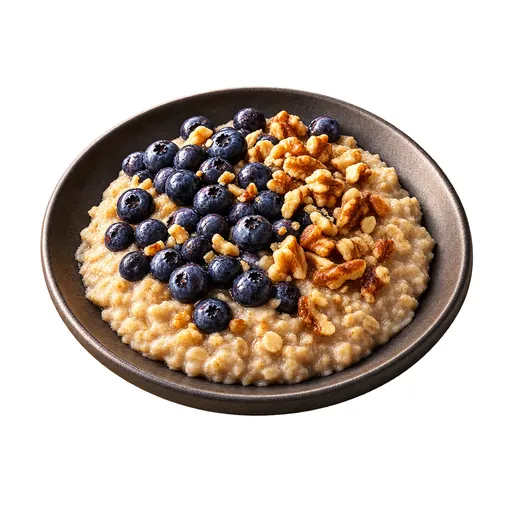
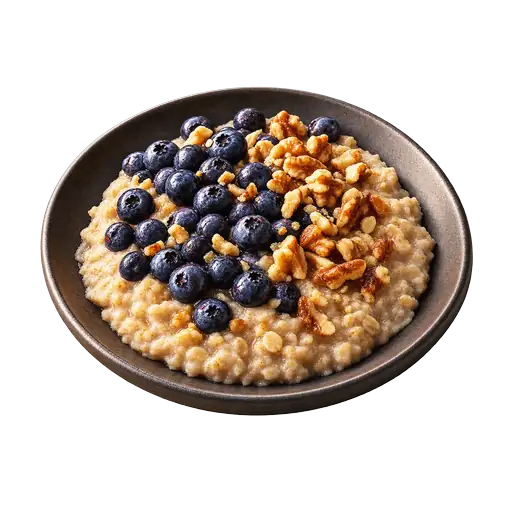
Блюда: пересохранены с прозрачным фоном; спецификация исправлена
Все 22 старых блюда каталога — RGBA, а я в прошлом коммите сплющил новые на
белый: на тёмных карточках приложения это были бы белые квадраты. Пересохранил
14 новых с сохранением прозрачности (472 px внутри прозрачного холста 512x512,
WebP q62). Проверено: все 37 файлов 512x512 RGBA, папка 1,2 МБ.

Про вес честно: сильнее не жмётся. Исходники детальнее старых, на q45 экономия
пара килобайт, а текстура сыпется — оставил 40–60 КБ против 15–25 у прежних.

В docs/DISH-CATALOG-SPEC.md вписан рабочий промпт владельца дословно и
исправлено моё ошибочное требование «фон чисто белый» → прозрачный PNG.
Оригиналы из скрин/2 удалены по просьбе владельца.

diff --git a/docs/DISH-CATALOG-SPEC.md b/docs/DISH-CATALOG-SPEC.md
@@ -26,10 +26,11 @@
 
 ## 2. Требования к фото (обязательно соблюсти — иначе каталог развалится по стилю)
 
-- **512 × 512, WebP**, вес ~20–30 КБ.
-- Одна **круглая чёрная матовая тарелка**, вид сверху под углом примерно 30–40°.
-- **Фон чисто белый**, мягкая тень под тарелкой, никаких столов, скатертей, приборов, рук, зелени
-  по краям, надписей и логотипов.
+- **512 × 512, WebP, с ПРОЗРАЧНЫМ фоном** (все блюда каталога — RGBA; на белом они будут белыми
+  квадратами на тёмных карточках приложения). Исходник — PNG 1024×1024 с прозрачностью.
+- Одна **круглая матовая тёмно-графитовая тарелка**, вид под углом 45°, тарелка занимает ~85 %
+  кадра, тёплый боковой свет слева сверху, мягкая полупрозрачная контактная тень под тарелкой.
+- Никаких столов, скатертей, приборов, салфеток, рук, надписей и логотипов.
 - Порция на одного, еда занимает большую часть тарелки, компоненты видны раздельно
   (белок · гарнир · овощи), без соусов-луж.
 - Свет мягкий рассеянный, тёплый, без резких бликов и без «глянцевого фуд-порно».
@@ -38,10 +39,13 @@
 
 Готовый промпт-шаблон для генерации (подставить состав):
 
-> Photorealistic food photography, single serving on one round matte black plate, three-quarter
-> top-down view, pure white seamless background, soft diffused warm light, gentle shadow under the
-> plate, no cutlery, no props, no text. The plate contains: **[состав]**. Components clearly
-> separated, appetising but natural home cooking, not glossy advertising style. Square 1:1.
+> Photorealistic food photography, single round matte dark-graphite ceramic plate centered,
+> filling ~85% of frame, 45-degree three-quarter view, warm golden side lighting from upper left,
+> soft translucent contact shadow under the plate, transparent background, no table, no cutlery,
+> no napkins, honest realistic home portion sizes: **[СОСТАВ]**. 1024x1024, PNG with transparency.
+
+Это рабочий промпт владельца — им сняты все 14 блюд второй партии. Приведение к формату каталога
+(масштаб до 472 px внутри прозрачного холста 512×512, WebP q62) делаю я, вручную ничего не готовить.
 
 ## 3. Что доснять — 14 блюд
 
